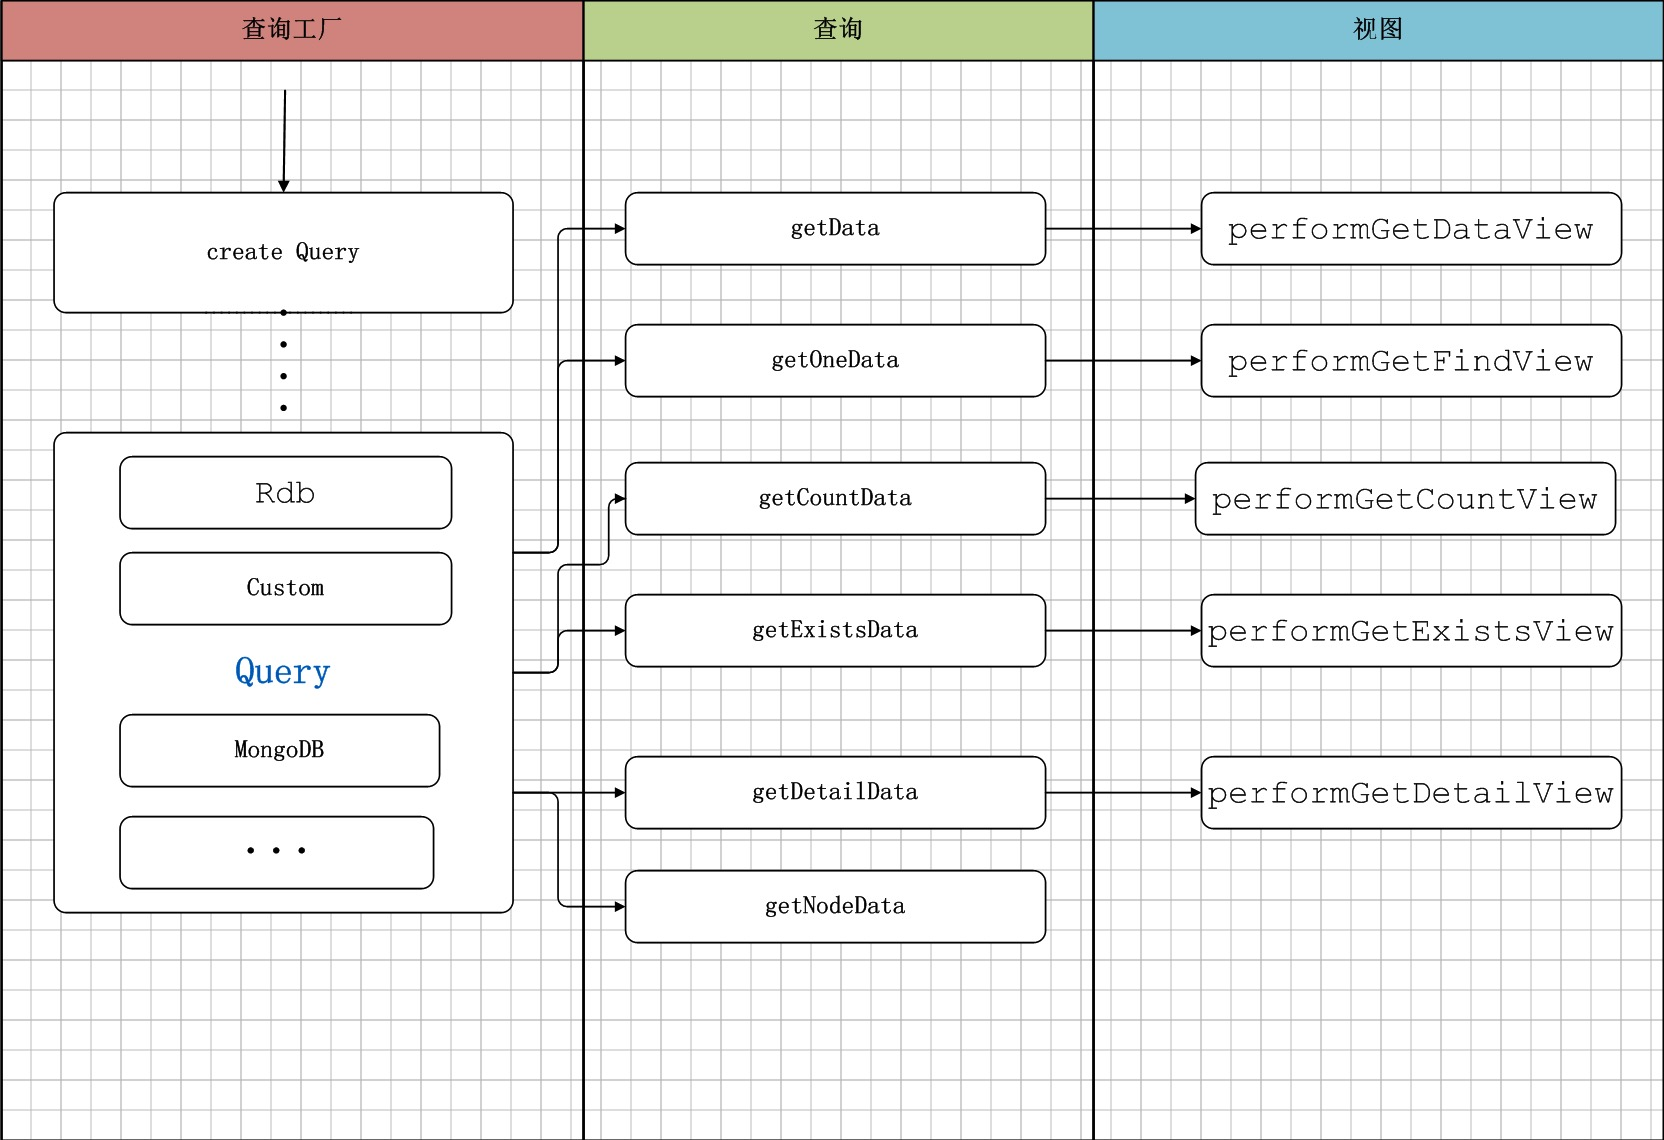
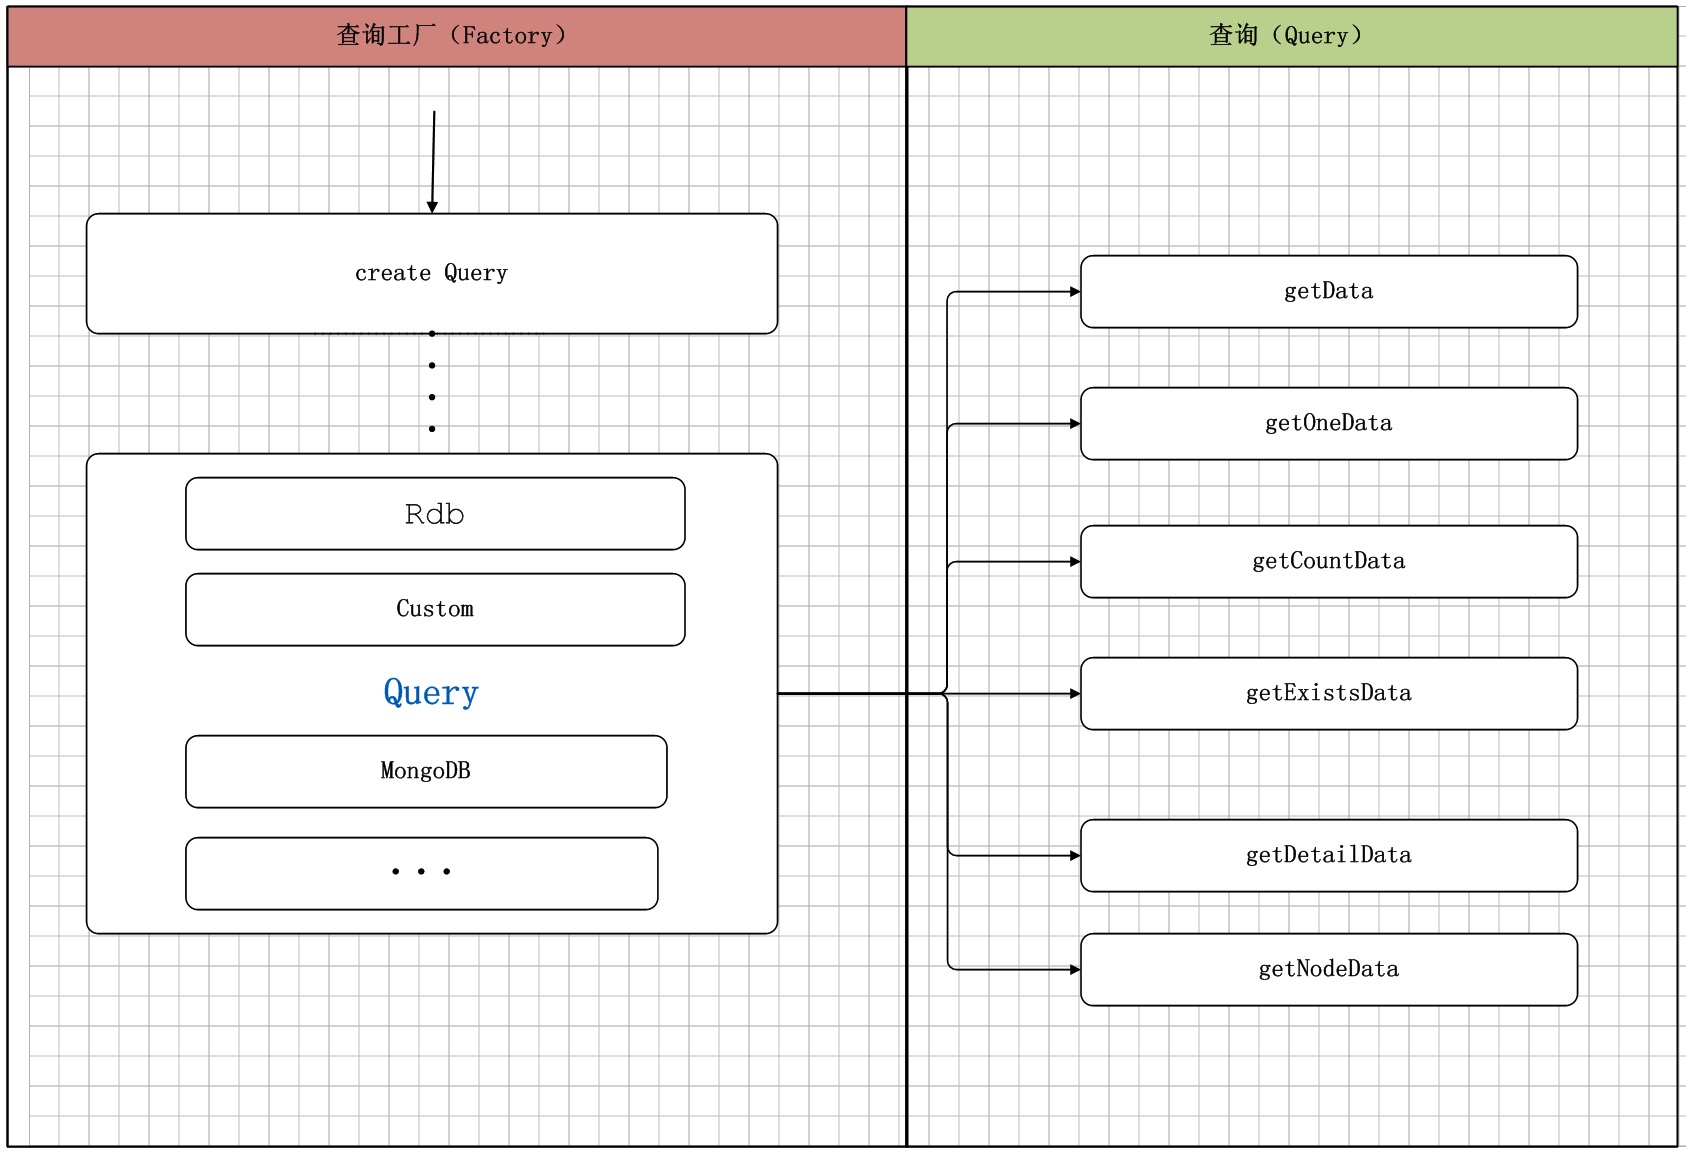
Update

Changed region(s): [[0.0, 0.0, 1.0, 1.0], [0.0938, 0.5219, 0.125, 0.5526]]

diff --git a/02 Engine-Architecture/Overview/2016年4月20日补充文档会议纪要.md b/02 Engine-Architecture/Overview/2016年4月20日补充文档会议纪要.md
@@ -1,0 +1,48 @@
+## 2016年4月20日补充文档会议纪要
+
+### 参会时间：4月20日下午2：00
+### 参会地点：
+### 参会人员
+
+
+## 引擎时序总图
+
+- Query Factory 与 Action Factory 的方向关系；
+- 需要标注序号;
+- 进出分支用不同颜色标注;
+- UML 关系有错乱;
+- Engine Config 基本说明;
+- 引擎的能力流程图;
+
+## 视图工厂时序图
+
+- 时序流向方向调整；
+- performGet 详细说明;
+
+
+## 查询工厂时序图
+
+- 视图层不需要在查询工厂体现;
+
+## 动作工厂时序图
+
+- 时序流向方向调整；
+- 增加递归标识;
+- Driver Factory 标注;
+
+## 前端框架
+
+- Aid：辅助视图的说明；
+
+## 网盘
+
+- 后续进行简单讲解；
+
+## 后续计划
+
+- 
+
+
+
+
+

diff --git a/06 Configuration-Develop-Guide/Getting Started/First Step.md b/06 Configuration-Develop-Guide/Getting Started/First Step.md
@@ -1,2 +1,11 @@
 ### 第一步：下载模型模板，设计模型
 
+点击 `开发 -> 模型` 下的**下载模板**按钮，进行模板下载；
+
+![PNG](..\images\getting started/1.png)
+
+下载模板后，按业务需求进行模型设计；
+> 模板中提供了一个模型的样例说明，sheet 名称为模型名称，在导入模型时，以模型名称进行关联导入；
+
+![PNG](..\images\getting started/2.png)
+![PNG](..\images\getting started/3.png)

diff --git a/06 Configuration-Develop-Guide/Getting Started/README.md b/06 Configuration-Develop-Guide/Getting Started/README.md
@@ -1,3 +1,3 @@
 ### 快速开始
 
-
+EAD 平台是基于配置进行软件开发的
